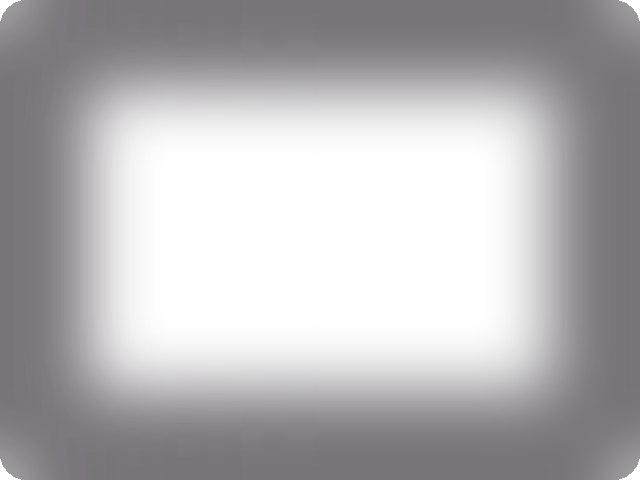
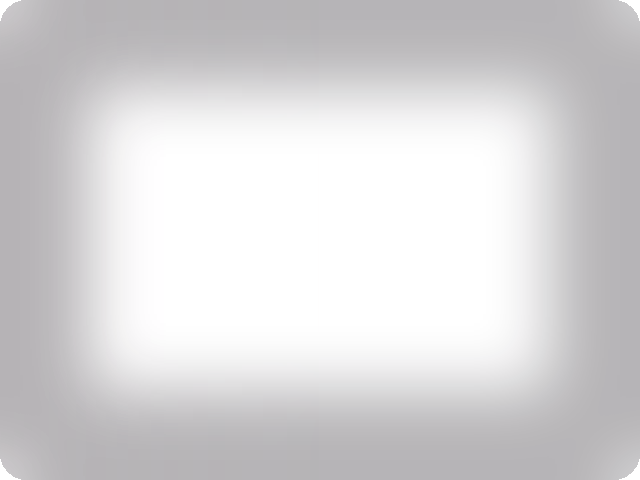
site: widen the CRT aperture so the static reaches the bezel

diff --git a/site/tv-geo.css b/site/tv-geo.css
@@ -2,8 +2,8 @@
   /* glass box inside img/tv.png, written by tools/build_user_assets.py.
      Grown 6px past the measured edge so the screen content runs under the
      bezel instead of leaving a dark rim. */
-  --gl-left:14.002%;
-  --gl-top:12.471%;
-  --gl-w:71.635%;
-  --gl-h:68.879%;
+  --gl-left:13.279%;
+  --gl-top:11.556%;
+  --gl-w:73.080%;
+  --gl-h:70.709%;
 }

diff --git a/tools/build_user_assets.py b/tools/build_user_assets.py
@@ -43,11 +43,20 @@ def build_tv():
     ys2, xs2 = np.where(glass)
     x0, x1, y0, y1 = int(xs2.min()), int(xs2.max()), int(ys2.min()), int(ys2.max())
 
-    m = Image.fromarray((glass * 255).astype(np.uint8)).filter(
-        ImageFilter.GaussianBlur(1.2))
-    padm = 4
-    m = m.crop((max(x0 - padm, 0), max(y0 - padm, 0),
-                min(x1 + padm, w), min(y1 + padm, h)))
+    m = Image.fromarray((glass * 255).astype(np.uint8))
+    # grow the aperture a little: the glass has a lighter bevel inside it, and
+    # leaving any of it shows up as a dark rim around the static
+    m = m.filter(ImageFilter.MaxFilter(21))
+    m = m.filter(ImageFilter.GaussianBlur(1.2))
+    # the box everything else is measured from is the DILATED aperture, not the
+    # raw flood fill, or the hole ends up wider than the element that fills it
+    ma = np.asarray(m)
+    ys3, xs3 = np.where(ma > 24)
+    dx0, dx1, dy0, dy1 = int(xs3.min()), int(xs3.max()), int(ys3.min()), int(ys3.max())
+    padm = 2
+    cx0, cy0 = max(dx0 - padm, 0), max(dy0 - padm, 0)
+    cx1, cy1 = min(dx1 + padm, w), min(dy1 + padm, h)
+    m = m.crop((cx0, cy0, cx1, cy1))
     # save as RGBA with the shape in ALPHA: a greyscale PNG is an ambiguous
     # mask source and Chrome can end up hiding everything
     rgba = Image.new("RGBA", m.size, (255, 255, 255, 0))
@@ -58,7 +67,7 @@ def build_tv():
     # content BEHIND it, so the bezel's own curve does the clipping and no CSS
     # mask is involved
     hole = Image.new("L", tv.size, 0)
-    hole.paste(m, (max(x0 - padm, 0), max(y0 - padm, 0)))
+    hole.paste(m, (cx0, cy0))
     hole = hole.filter(ImageFilter.GaussianBlur(1.0))
     tv_arr = np.asarray(tv).copy()
     tv_arr[..., 3] = (tv_arr[..., 3].astype(np.float32) * (1.0 - np.asarray(hole).astype(np.float32) / 255.0)).astype(np.uint8)
@@ -66,8 +75,7 @@ def build_tv():
     print("tv-window.png written")
     print("tv-mask.png", m.size)
 
-    gx0, gy0 = max(x0 - 6, 0), max(y0 - 6, 0)
-    gx1, gy1 = min(x1 + 6, w), min(y1 + 6, h)
+    gx0, gy0, gx1, gy1 = cx0, cy0, cx1, cy1
     css = """:root{{
   /* glass box inside img/tv.png, written by tools/build_user_assets.py.
      Grown 6px past the measured edge so the screen content runs under the

diff --git a/tools/build_assets.py b/tools/build_assets.py
@@ -90,7 +90,7 @@ def glass_overlay():
                                            outline=255, width=90)
     edge = edge.filter(ImageFilter.GaussianBlur(30))
     dark = Image.new("RGBA", (w, h), (10, 4, 12, 0))
-    dark.putalpha(edge.point(lambda v: int(v * 0.55)))
+    dark.putalpha(edge.point(lambda v: int(v * 0.30)))
     lay = Image.alpha_composite(lay, dark)
     lay.putalpha(Image.composite(lay.getchannel("A"), Image.new("L", (w, h), 0), mask))
     lay.save(os.path.join(IMG, "glass.png"))
